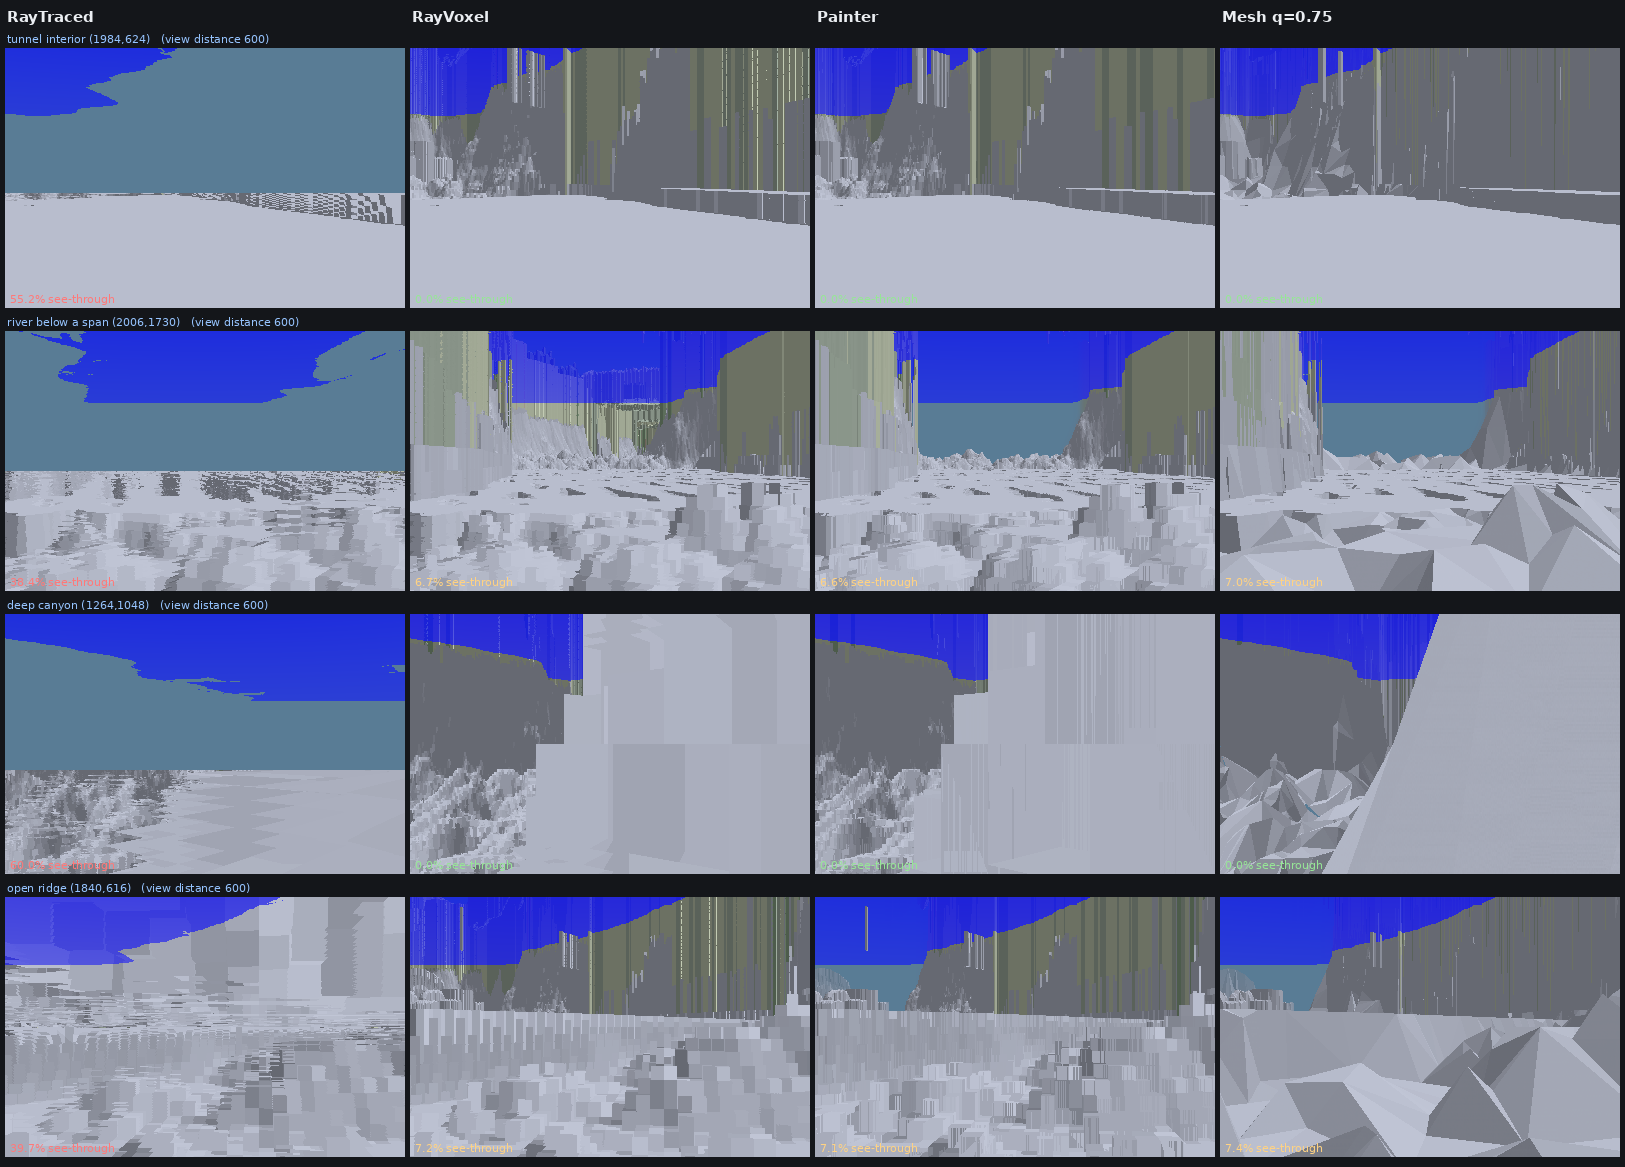
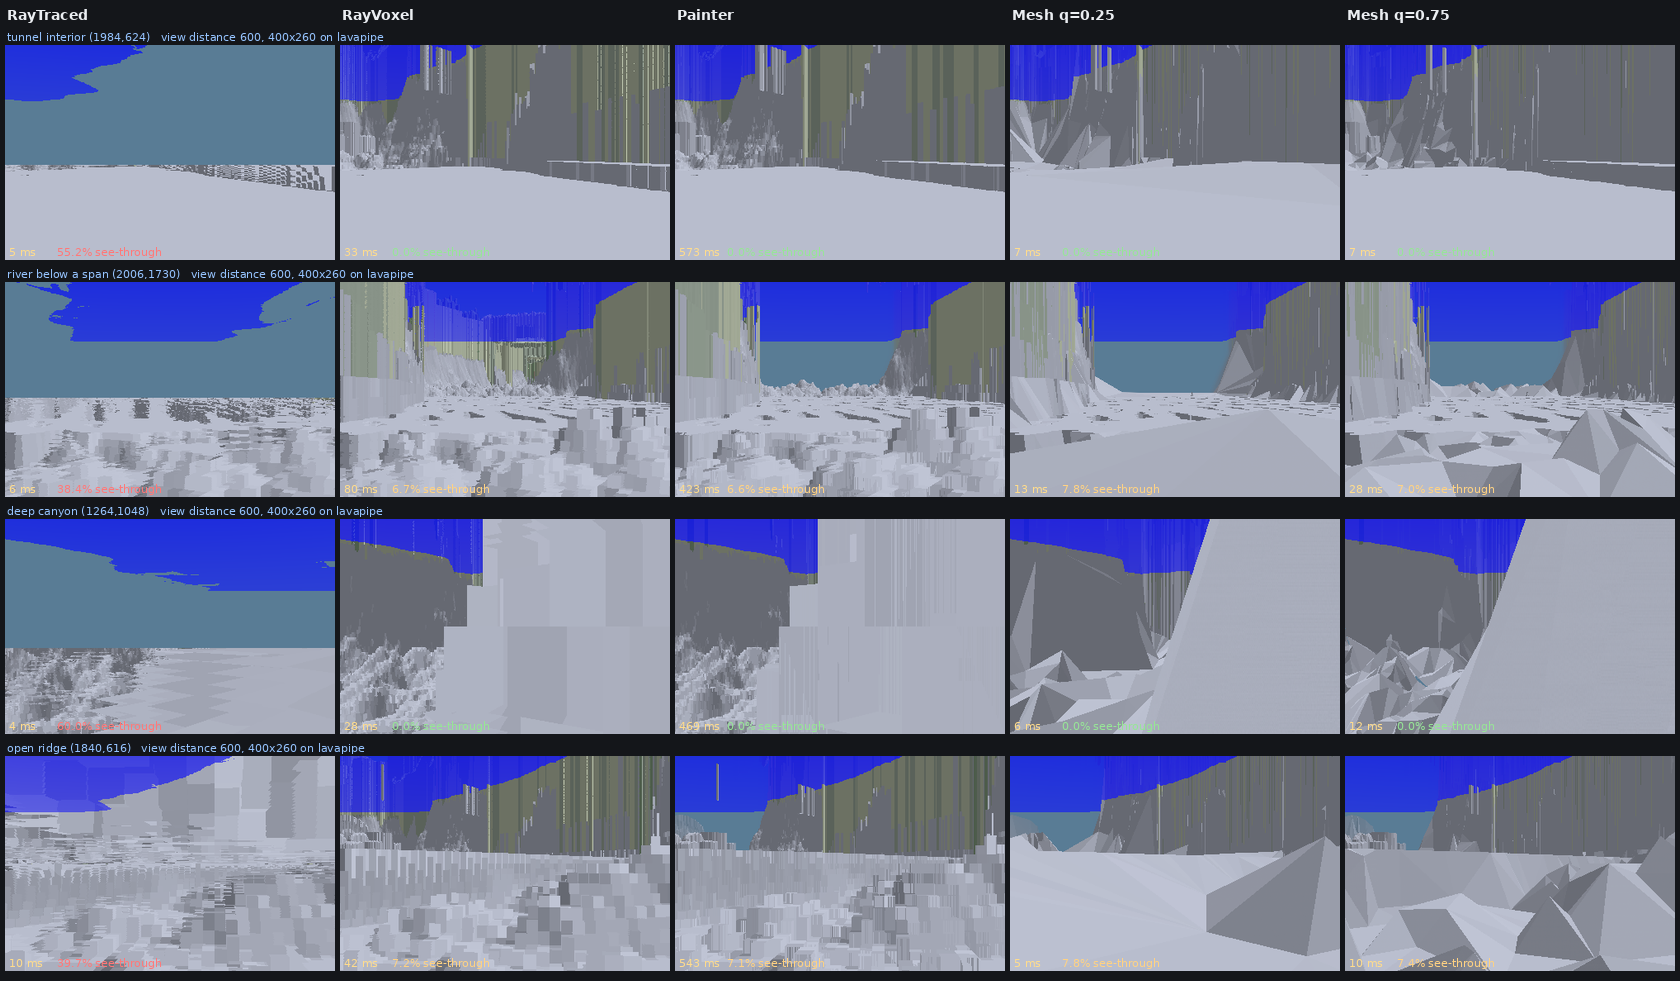
Docs: add frame times and quality 0.25 to the comparison
The table reported correctness without cost, and dropped the cheaper
quality setting to make room for the painter. Both are back.

Among the renderers that are correct the mesh is also the fastest: 3-9x
the voxel tracer and 40-100x the painter, on a software rasterizer.
Quality 0.25 is within 2.4% of the others except in the deep canyon,
where high relief needs the tolerance.

Claude-Session: https://claude.ai/code/session_01EzS4toL8ewZGV6MZHf4Kh8

diff --git a/docs/_posts/2026-08-07-terrain-mesh.md b/docs/_posts/2026-08-07-terrain-mesh.md
@@ -137,8 +137,31 @@ first person, eye 8 units above the surface. The number that matters is
 the fraction of solid terrain a renderer draws as sky. Reproduce with
 `tools/compare-terrain.py`.
 
-Depth agreement between renderers, as the fraction of the frame more than
-60 units apart, at a view distance of 600:
+Fostral, first person, 400x260, view distance 600, on lavapipe. Frame
+time and the fraction of solid terrain drawn as sky:
+
+| view | RayTraced | RayVoxel | Painter | Mesh q=0.25 | Mesh q=0.75 |
+|---|---|---|---|---|---|
+| tunnel interior | 5.3 ms / 55.2% | 33.1 ms / 0.0% | 572.6 ms / 0.0% | **7.3 ms / 0.0%** | 7.4 ms / 0.0% |
+| river below a span | 5.8 ms / 38.4% | 79.8 ms / 6.7% | 422.7 ms / 6.6% | **13.2 ms / 7.8%** | 27.9 ms / 7.0% |
+| deep canyon | 3.9 ms / 60.0% | 27.7 ms / 0.0% | 468.6 ms / 0.0% | **5.9 ms / 0.0%** | 12.2 ms / 0.0% |
+| open ridge | 10.0 ms / 39.7% | 42.0 ms / 7.2% | 543.1 ms / 7.1% | **4.8 ms / 7.8%** | 10.1 ms / 7.4% |
+
+The residual few percent at river and ridge is shared by all three
+converged renderers, so it is the CPU reference differing rather than any
+of them.
+
+Ray tracing the height field is fastest and wrong: 38-60% of solid
+terrain drawn as sky at eye level, at every viewpoint. It is the method
+this work exists to replace.
+
+Among the renderers that are right, the mesh is also the quickest — 3 to
+9x the voxel tracer and 40 to 100x the painter — on a *software*
+rasterizer, which is the one platform that cannot show what hardware
+rasterization is for.
+
+Depth agreement between the three, as the fraction of the frame more than
+60 units apart:
 
 | view | mesh vs voxel | mesh vs painter | painter vs voxel |
 |---|---|---|---|
@@ -147,27 +170,10 @@ Depth agreement between renderers, as the fraction of the frame more than
 | deep canyon | 6.5% | 8.3% | 1.9% |
 | open ridge | 0.3% | 0.4% | 0.1% |
 
-The voxel tracer, the painter and the mesh agree to about a percent
-everywhere except the deep canyon, which is a high-relief view where the
-fit tolerance shows: raising quality to 1.0 takes it to 2.2%. Height-field
-ray tracing is the outlier, drawing 38-60% of solid terrain as sky at eye
-level regardless of settings - it is the method this work exists to
-replace.
-
-Getting there took a detour worth recording. The mesh interpolated `mid`
-and `high` across triangles as if they were smooth fields. They are not:
-a cave ceiling steps by tens of units between neighbouring texels, and
-ramping across that step builds a roof that exists nowhere, near-vertical
-where the step is sharp. Depth against a converged voxel trace shows it —
-ground truth and voxel agree, the mesh has phantom geometry across the
-upper two thirds:
-
-![Depth comparison exposing the slab defect]({{site.baseurl}}/assets/terrain-mesh-depth.png)
-
-It went unnoticed because the metric in use scored only *see-through*
-error, which cannot detect over-drawing: the mesh scored a perfect 0%
-precisely because the phantom geometry covered everything. Comparing
-depth rather than classifying colours is what found it.
+Quality 0.25 holds up too — within 2.4% of the others everywhere except
+the deep canyon, where it drifts to 15.6%. That is the honest shape of
+the quality knob: high-relief views need the tolerance, flat ones do not,
+and the cheapest setting that is still correct depends on the terrain.
 
 Three settings have to be right or the comparison is meaningless, and
 each of them cost a wrong conclusion during development:
